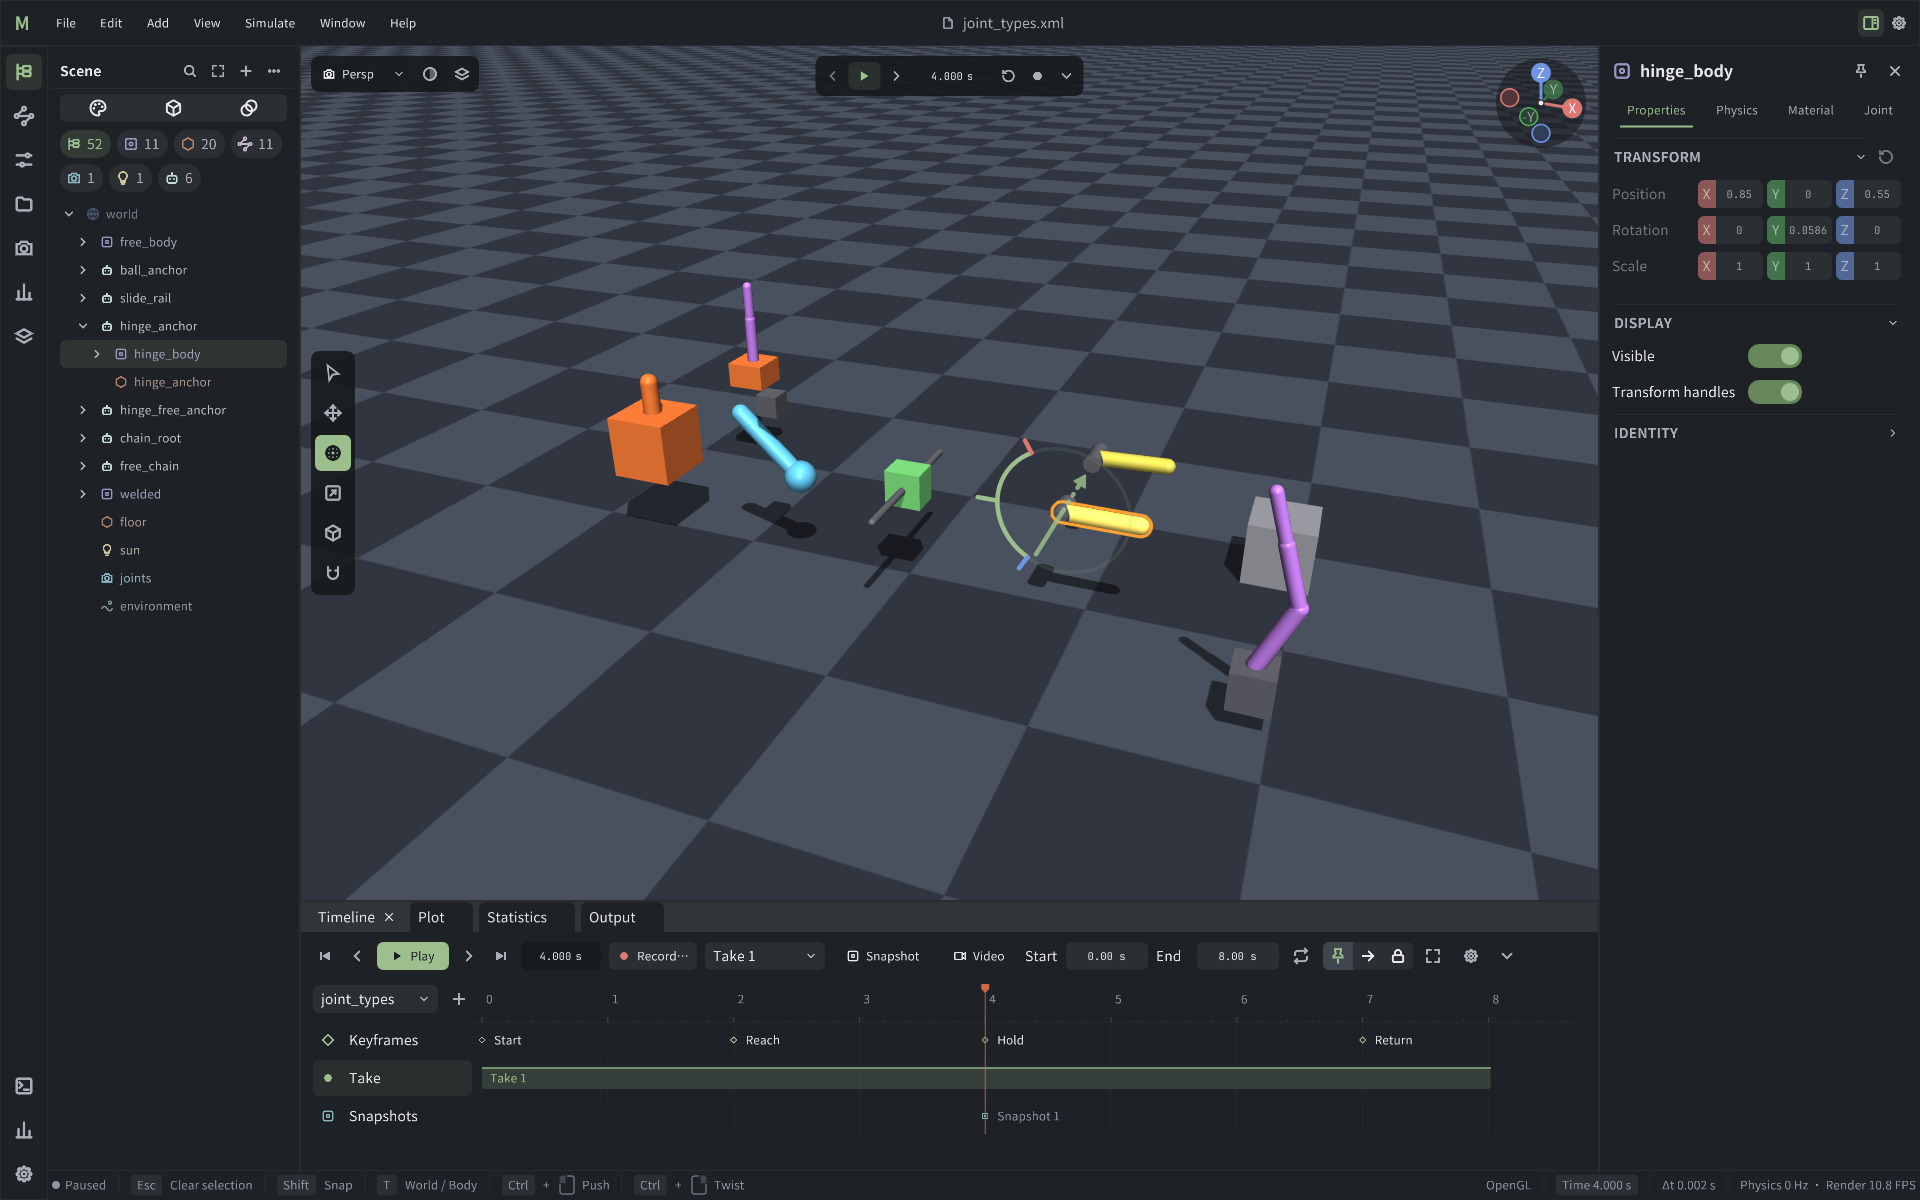
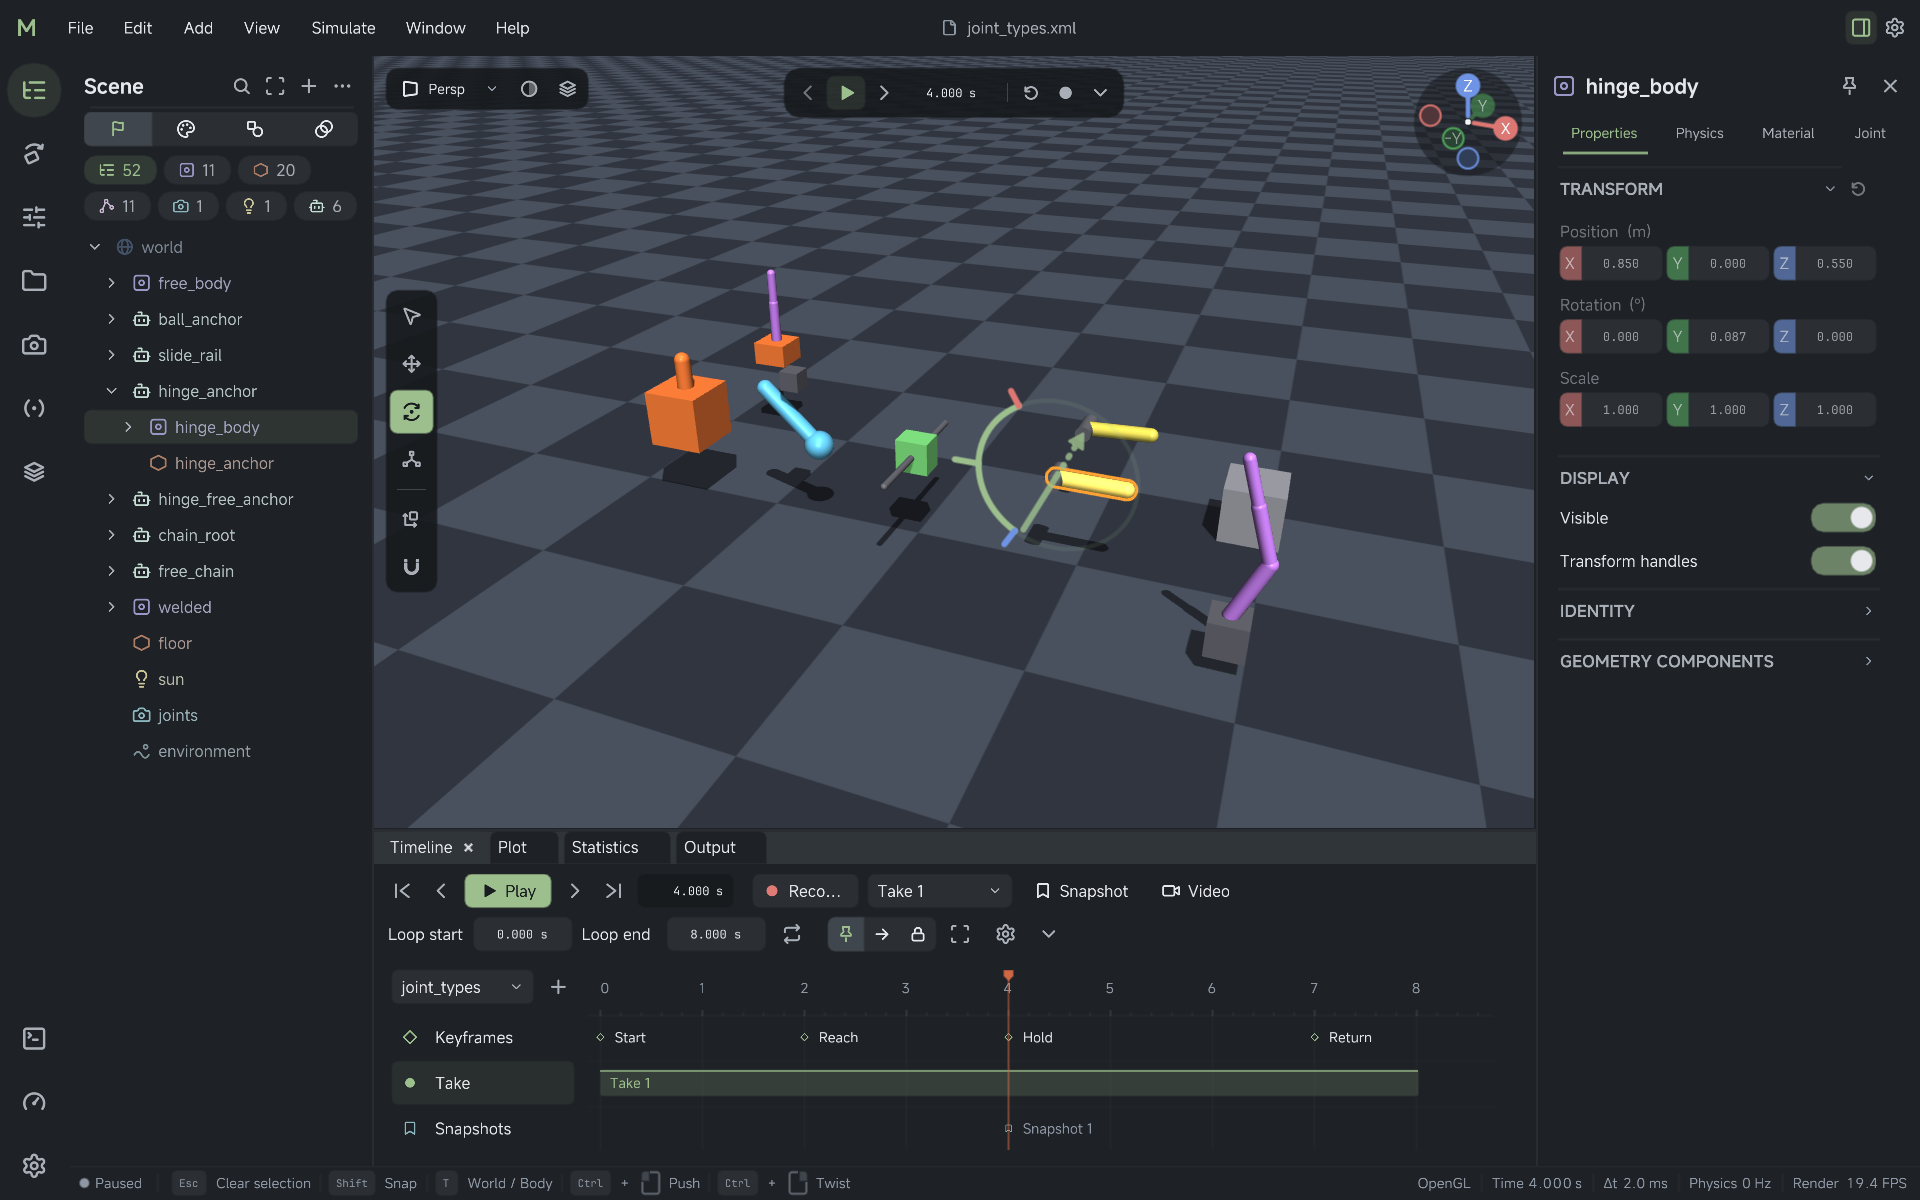
Refresh README screenshots and fix HiDPI font scaling

diff --git a/python/tools/build_readme_media.py b/python/tools/build_readme_media.py
@@ -27,7 +27,7 @@ from .ui_runtime import _park_cursor, _save, _settle
 
 
 def _capture_editor(
-    output: Path, width: int, height: int, *, interactive=False, ui_scale=1.0
+    output: Path, width: int, height: int, *, interactive=False, ui_scale=1.2
 ) -> dict:
     config = ViewerConfig(
         layout=LayoutConfig(persistence=False),
@@ -102,6 +102,7 @@ def _capture_editor(
         _settle(viewer)
         viewer.app.output.active_status(float("inf"))
         _settle(viewer)
+        _fit_timeline(viewer)
         if interactive:
             viewer.window.show()
             _wait_for_capture(viewer, "hero.png")
@@ -129,8 +130,26 @@ def _capture_editor(
             "keyframes": ["Start", "Reach", "Hold", "Return"],
             "logical_ui_scale": viewer.window.style_scale,
             "physical_ui_scale": viewer.window.ui_scale,
+            "framebuffer_scale": list(imgui.get_io().display_framebuffer_scale),
+            "font_scale_dpi": imgui.get_style().font_scale_dpi,
             "layout": layout,
         }
+
+
+def _fit_timeline(viewer) -> None:
+    """Resize the capture's dock split to include all three production tracks."""
+    workspace = viewer.app.workspace
+    timeline = imgui.internal.find_window_by_name("Timeline")
+    viewport = imgui.internal.find_window_by_name("Viewport")
+    track = workspace.timeline_panel.last_layout
+    extra = track.hi[1] + 12 * workspace.s - timeline.inner_rect.max.y
+    if extra > 0:
+        for window, delta in ((timeline, extra), (viewport, -extra)):
+            node = window.dock_node
+            imgui.internal.dock_builder_set_node_size(
+                node.id_, imgui.ImVec2(node.size.x, node.size.y + delta)
+            )
+        _settle(viewer)
 
 
 def _layout_report(viewer, *, sidebar="Scene") -> dict:
@@ -147,6 +166,9 @@ def _layout_report(viewer, *, sidebar="Scene") -> dict:
     for left, top, w, h in workspace.rects["overlays"]:
         if left < x - 1 or top < y - 1 or left + w > x + width + 1 or top + h > y + height + 1:
             raise RuntimeError("A production viewport overlay is clipped")
+    timeline = imgui.internal.find_window_by_name("Timeline")
+    if workspace.timeline_panel.last_layout.hi[1] > timeline.inner_rect.max.y + 1:
+        raise RuntimeError("The production Timeline tracks are clipped")
     return bounds
 
 
@@ -186,7 +208,7 @@ def main(argv: list[str] | None = None) -> int:
     )
     parser.add_argument("--width", type=int, default=1920)
     parser.add_argument("--height", type=int, default=1200)
-    parser.add_argument("--ui-scale", type=float, default=1.0)
+    parser.add_argument("--ui-scale", type=float, default=1.2)
     parser.add_argument("--spec", type=Path, help="Use a saved UI design specification")
     parser.add_argument(
         "--interactive",

diff --git a/tests/gpu/test_hidpi.py b/tests/gpu/test_hidpi.py
@@ -18,6 +18,49 @@ from mojive.ui.viewport_widgets import ToolHint  # noqa: E402
 
 
 @pytest.mark.parametrize("initial_scale", [1.0, 2.0])
+def test_workspace_text_matches_controls_after_live_scale_changes(
+    initial_scale, tmp_path, monkeypatch
+):
+    from imgui_bundle import imgui
+
+    from mojive.app.composition import build_workspace
+    from mojive.config import LayoutConfig
+    from mojive.tools.ui_runtime import _settle
+    from mojive.ui.imgui_draw import ImguiDraw2D
+
+    monkeypatch.setenv("MOJIVE_UI_SCALE", str(initial_scale))
+    monkeypatch.setenv("MOJIVE_SETTINGS", str(tmp_path / "settings.json"))
+    monkeypatch.setenv("MOJIVE_DESIGN_SPEC", str(tmp_path / "design-spec.json"))
+    measured = {}
+    paint = ImguiDraw2D.text
+
+    def observe(painter, pos, color, text, **options):
+        if text == "Scene":
+            measured["heading"] = imgui.get_font_size()
+        return paint(painter, pos, color, text, **options)
+
+    monkeypatch.setattr(ImguiDraw2D, "text", observe)
+    with build_workspace(
+        resolve("joint_types"),
+        config=ViewerConfig(layout=LayoutConfig(persistence=False)),
+        vsync=False,
+        width=1600,
+        height=1000,
+        show_window=False,
+    ) as viewer:
+        assert hasattr(viewer.app, "workspace")
+        viewer.app.set_language("en")
+        _settle(viewer)
+        for scale in (0.5, 0.625, 0.75, 1.0, 1.6, 2.25, 1.0):
+            measured.clear()
+            viewer.window._scale_override = scale
+            _settle(viewer, 3)
+            assert "heading" in measured, scale
+            assert measured["heading"] == pytest.approx(16 * scale, abs=0.5)
+            assert imgui.get_style().font_scale_dpi == 1.0
+
+
+@pytest.mark.parametrize("initial_scale", [1.0, 2.0])
 def test_relative_fonts_follow_live_scale_changes_once(initial_scale, tmp_path, monkeypatch):
     from imgui_bundle import imgui
 

diff --git a/python/ui/window.py b/python/ui/window.py
@@ -192,7 +192,8 @@ class WindowConfig:
     font_size_pt: float = 14.0
     ui_scale: float | None = None
     context_api: str = "auto"
-    # Frontends with their own atlas still need the shared renderer font sources.
+    # Native frontends own their atlas and submit layout-scaled font sizes.
+    # They still need the shared renderer font sources.
     load_default_fonts: bool = True
 
 
@@ -478,8 +479,15 @@ class Window:
         if math.isclose(self._applied_style_scale, self._style_scale, abs_tol=1e-3):
             return
         style = imgui.get_style()
-        style.scale_all_sizes(self._style_scale / self._applied_style_scale)
-        style.font_scale_dpi = self._style_scale / self._font_atlas_scale
+        ratio = self._style_scale / self._applied_style_scale
+        style.scale_all_sizes(ratio)
+        if self.config.load_default_fonts:
+            style.font_scale_dpi = self._style_scale / self._font_atlas_scale
+        else:
+            # Native presenters submit sizes already resolved in layout coordinates.
+            # A second DPI multiplier would scale text twice after a live scale change.
+            style.font_scale_dpi = 1.0
+            style.font_size_base *= ratio
         self._applied_style_scale = self._style_scale
 
     def show(self) -> None:

diff --git a/python/ui/app/capture.py b/python/ui/app/capture.py
@@ -252,7 +252,7 @@ class _Capture:
         cancel = self.localizer.text("Cancel")
         with floating_style(ui):
             style = imgui.get_style()
-            time_font = imgui.get_font_size() * (1.6 if remaining else 1)
+            time_font = style.font_size_base * (1.6 if remaining else 1)
             imgui.push_font(None, time_font)
             time_width = imgui.calc_text_size(timing).x
             imgui.pop_font()

diff --git a/docs/reference/ui-design-checklist.md b/docs/reference/ui-design-checklist.md
@@ -33,7 +33,7 @@ case to one screenshot.
 | A Boolean row wraps despite enough space for its caption and switch. | Use the actual Boolean control's width, independent of numeric/vector minima. Check the shared grid as well as manual rows. | `tests/test_inspector_switch_layout.py`; `tests/test_switch_fit.py` |
 | Body labels protrude beyond section headings. | Use one owned leading content column for headings, manual rows, tables, and checkbox grids. Keep heading hover padding separate and restore enclosing bounds. | `tests/test_native_property_style.py`; `tests/test_panel_groups.py`; guide `--capture-alignment` |
 | Cards, selections, scrollbars, or controls touch container edges. | Resolve content insets, selected-row bounds, scrollbar gutters, and control padding explicitly. Inspect sibling consumers of the shared owner. | `tests/test_ui_design_components.py`; `tests/test_native_settings_layout.py`; production panel captures |
-| Text scales twice, icons drift from captions, or CJK glyphs/descenders are missing. | Measure and paint with the same resolved font and baseline. Apply UI scale once and framebuffer density separately. Test real captions and fallback fonts. | `tests/gpu/test_hidpi.py`; `tests/test_ui_design_fonts.py`; `tests/test_status_phrase_geometry.py` |
+| Text scales twice, icons drift from captions, or CJK glyphs/descenders are missing. | Measure and paint with the same resolved font and baseline. Apply UI scale once and framebuffer density separately. Check painted native text after live changes, including fractional scales below 1; do not multiply resolved sizes by atlas-relative DPI again. Test real captions and fallback fonts. | `tests/gpu/test_hidpi.py`; `tests/test_ui_design_fonts.py`; `tests/test_status_phrase_geometry.py` |
 | Disabled controls lose semantic color, or hover and press look identical. | Apply opacity once at its intended layer. Preserve axis meaning and readable switch thumb/track contrast through relevant states. | `tests/gpu/test_value_rails.py`; `tests/test_ui_design_controls.py` |
 
 ## Corners, menus, and floating surfaces
@@ -77,6 +77,7 @@ Follow the [icon authoring guide](../how-to/ui-icons.md) for the complete geomet
 | Resizing produces black margins until dragging stops. | Derive render extent and projection from current layout. Keep a valid target on allocation failure; preserve intentional fixed-output letterboxing. | `tests/test_viewport_resize.py`; `tests/gpu/test_viewport_resize.py`; `make viewport-resize` |
 | Repeated selection/tab/disclosure changes get slower, or optimization changes appearance. | Profile the production workload and recovery to idle. Separate UI/render/init cost; bound caches and invalidate explicitly. Preserve geometry, typography, hit bounds, and transactions. | `tests/test_property_diagnostics.py`; `tests/test_inspector_profile.py`; `tests/test_numeric_paint_visibility.py`; `make inspector-profile` |
 | A capture omits diagnostics or differs from the actual editor. | Select scene/viewport/window scope explicitly. Match the specification, fonts, scale, density, scene state, and viewport size; inspect results before replacing maintained media. | `tests/gpu/test_scene_capture.py`; `make readme-media`; [capture scope](../guides/ui-design.md#interaction-and-continuity) |
+| Documentation text is too small, or scaling hides Timeline tracks. | Check readability at the page's display width. Resize dock splits after choosing UI scale so wrapped toolbars and all showcased tracks remain contained; inspect whether the resulting viewport height changes tool orientation. | `make readme-media`; [README media](../guides/development.md#readme-media) |
 | UI cleanup moves fields into unrelated Inspector tabs. | Keep geometry in Properties, contact/mass in Physics, and appearance in Material. Shared presentation does not merge domain ownership. | `tests/gpu/test_native_workspace.py`; `make ui-inspector-tabs` |
 | A shared fix covers one specimen but leaves another consumer broken. | Enumerate affected consumers, inspect representative production states, and update the owning guide for any new reusable constraint. Geometry assertions complement visual and interaction review. | Root `AGENTS.md`; [visual review policy](../guides/testing.md#visual-review-and-baselines); the focused checks for the affected component |
 

diff --git a/docs/guides/ui-design.md b/docs/guides/ui-design.md
@@ -71,6 +71,10 @@ Related text shares a baseline; icon slots align to the font's measured cap-heig
 Do not independently center every word's ink box: changing a caption must not move its
 baseline. Missing CJK glyphs, fallback faces, and clipped descenders are acceptance failures.
 Apply application UI scale once; framebuffer density is a separate conversion.
+Native workspace presenters submit font sizes in resolved layout coordinates, so live scale
+changes must not also apply an atlas-relative `FontScaleDpi` multiplier. Classic UI fonts use
+that multiplier for their fixed atlas sizes. Verify actual painted text after scale changes,
+including fractional scales below 1 on high-density displays.
 
 The following table illustrates the adopted factory tokens. The specification and component
 resolver remain the source for actual values; local group overrides can differ. Update these
@@ -225,6 +229,11 @@ The first revealed window contains a completed frame and resolved docking. Resiz
 and camera projection follow the current viewport extent; do not wait for a settling timer.
 Fixed-resolution capture can retain intentional letterboxing. Scene captures include enabled
 scene diagnostics; choosing scene, viewport, or window capture controls the UI layer.
+For documentation captures, choose a physical UI scale that remains readable at the page's
+display width, then resize dock splits to contain the showcased content. Check all Timeline
+tracks after scaling; increasing the UI scale also changes toolbar wrapping and required height.
+Inspect viewport tool orientation too: expanding Timeline can reduce viewport height enough to
+trigger its compact horizontal layout.
 
 ## Independent groups and design editing
 

diff --git a/docs/guides/development.md b/docs/guides/development.md
@@ -470,7 +470,8 @@ API pages are generated from current Python definitions through `python/tools/do
 
 ### README media
 
-`make readme-media` captures the production workspace and renderer at 1920 × 1200. It reads
+`make readme-media` captures the production workspace and renderer at 1920 × 1200, with the
+editor UI at 120% scale for readable README text. It reads
 the saved UI design specification, uses isolated desktop settings, and records a short take in
 the bundled `joint_types` scene. The images show Scene, Inspector and Timeline; Pose with the
 rotation gizmo; and the rendered showcase. Images come directly from OpenGL captures.
@@ -492,10 +493,11 @@ Save parameter changes in `make ui-native-design` before capture. The capture us
 specification, image size or physical UI scale can be selected explicitly:
 
 ```bash
-make readme-media ARGS='--interactive --spec /absolute/path/design-spec.json --width 1920 --height 1200 --ui-scale 1'
+make readme-media ARGS='--interactive --spec /absolute/path/design-spec.json --width 1920 --height 1200 --ui-scale 1.2'
 ```
 
 Omit `--interactive` for unattended captures with the prepared layouts. The default physical UI
-scale is 1; the logical scale is adjusted for display density. Inspect all three images and
+scale is 1.2; the logical scale is adjusted for display density. The prepared layout grows the
+Timeline dock to fit the keyframe, take and snapshot tracks. Inspect all three images and
 `manifest.json` under `output/readme-media/` before committing: labels, panel alignment,
 viewport overlays and timeline content must remain readable and contained.

diff --git a/README.md b/README.md
@@ -208,8 +208,9 @@ make help              # Examples, backend checks and performance targets
 
 Use `make readme-media ARGS='--interactive'` to adjust the workspace and camera before each
 editor capture. Press `F8` to capture the main workspace, then again for the joint controls;
-the rendering image is generated automatically. The command uses the saved UI design specification
-and updates `docs/images/readme/`. See [README media](docs/guides/development.md#readme-media)
+the rendering image is generated automatically. The command uses the saved UI design specification,
+captures at 1920 × 1200 with 120% UI scale, and updates `docs/images/readme/`.
+See [README media](docs/guides/development.md#readme-media)
 for image dimensions and specification options.
 
 Generated captures, recordings, reports, and the documentation site are written to `output/`.
